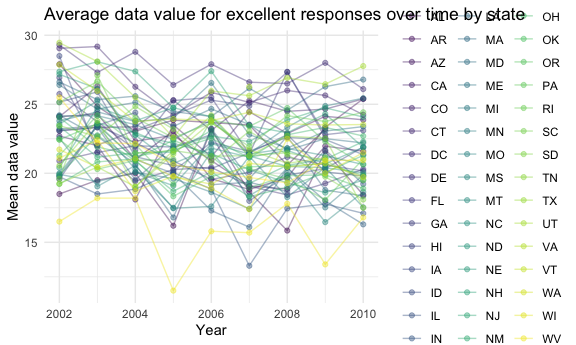
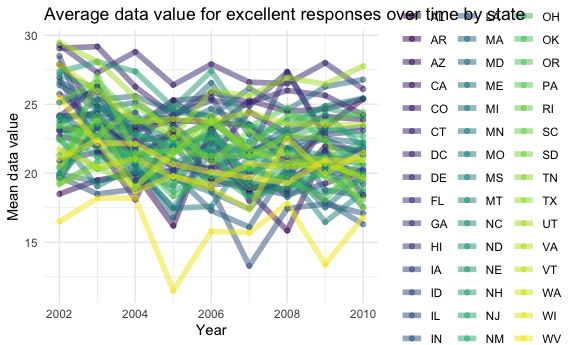
Added BRFSS graph for NY

diff --git a/p8105_hw3_zak2132.md b/p8105_hw3_zak2132.md
@@ -630,8 +630,8 @@ brfss_smart2010 %>%
       ) %>% 
       # Develop spaghetti plot
       ggplot(aes(x = year, y = mean_data_value, group = state, color = state)) + 
-      geom_line(alpha = 0.4) + 
-      geom_point(alpha = 0.4) + 
+      geom_line(alpha = 0.5, size=2) + 
+      geom_point(alpha = 0.5) + 
       labs(
             title = "Average data value for excellent responses over time by state",
             x = "Year",
@@ -647,6 +647,47 @@ brfss_smart2010 %>%
 <img src="p8105_hw3_zak2132_files/figure-gfm/spaghetti plot change in data_value over time by state-1.png" width="90%" />
 
 The mean data value fluctuates quite a bit over time and across states.
+West Virginia is a notable outlier, with lower average scores over time,
+especially in 2005 and 2009, compared to other states.
+
+I’m a bit curious how NY looks compared to the others on this metric, so
+I’ll also create a graph that highlights NY’s performance in particular.
+
+``` r
+# Group for all states
+all_states = brfss_smart2010 %>% 
+      # Filter and group
+      filter(response == "Excellent") %>% 
+      group_by(state, year) %>% 
+      # Create new summary measure
+      summarize(
+            mean_data_value = mean(data_value)
+      ) 
+```
+
+    ## `summarise()` has grouped output by 'state'. You can override using the `.groups` argument.
+
+``` r
+# Filter for NY specifically
+ny_only = all_states %>% 
+  filter(state == "NY")
+
+ # Develop plot
+ggplot() + 
+  geom_line(data = all_states, aes(x = year, y = mean_data_value, group = state), color = alpha("grey", 0.7)) + 
+  geom_line(data = ny_only, aes(x = year, y = mean_data_value, color = state), color = alpha("blue", 1.0), size = 2) + 
+      labs(
+            title = "Average data value for excellent responses by state over time, NY vs others",
+            x = "Year",
+            y = "Mean data value"
+      )
+```
+
+    ## Warning: Removed 3 row(s) containing missing values (geom_path).
+
+<img src="p8105_hw3_zak2132_files/figure-gfm/unnamed-chunk-1-1.png" width="90%" />
+
+Looks like New York is right around the middle of the pack.
 
 Finally, we can also create a two-panel plot showing, for 2006 and 2010,
 the distribution of `data_value` for responses (“Poor” to “Excellent”)
